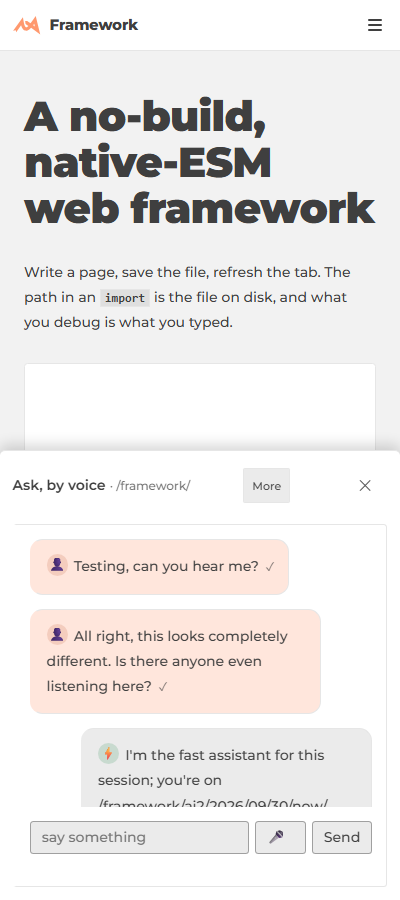
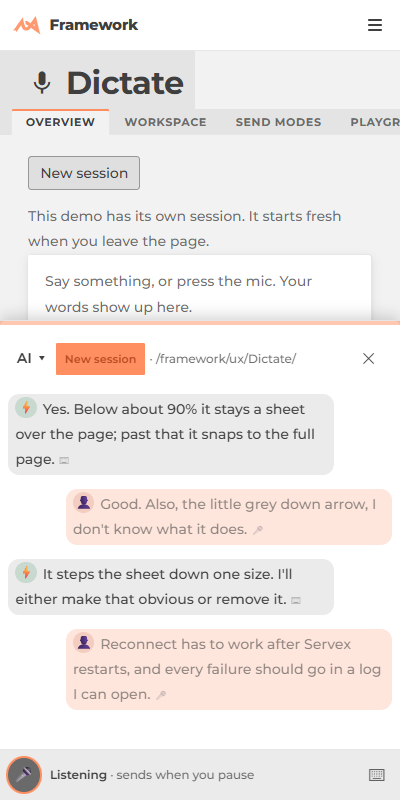
Phone sheet docs: why it stopped reconnecting and where its log is (ext/drawer/doc/sheet.md), the Dictate readme, asks ticked, the 40 px before/after series on the surfaces page

diff --git a/public/framework/ux/Dictate/surfaces/page.js b/public/framework/ux/Dictate/surfaces/page.js
@@ -1,4 +1,25 @@
-import { Page, md, div, h3, img, a } from "/app.js";
+import { Page, md, div, h2, h3, img, a } from "/app.js";
+
+// The phone sheet at 400 px, one shot per 40 px of drag, before and after 2026-10-20 (../test/sheet-steps.mjs; doc: ext/drawer/doc/sheet.md).
+const STEPS = "/framework/ai/sessions/2026/10/20/session-e00f55c9/sessions-and-tasks/mobile-sheet/shots/";
+function sheet_steps(){
+	h2("The phone sheet, step by step").attr("id", "the-phone-sheet-step-by-step");
+	md("**One click on ✦, then the top edge dragged 40 px at a time.** Before (left): it opens as a one-line strip, the page behind turns into an empty grey page, and the layout changes as it grows (a strip, a boxed chat, a tab row). After (right): the page stays visible, and the same three rows (head, chat well, mic footer) only grow, snap open at 90%, then come back down to the compact strip. Made by [test/sheet-steps.mjs](/framework/ux/Dictate/test/sheet-steps.mjs); why and how: [ext/drawer/doc/sheet.md](/framework/ext/drawer/doc/sheet.md).");
+	div.c("ux-dictate-surfaces-steps", $g => {
+		$g.style({ display: "grid", gridTemplateColumns: "1fr 1fr", gap: "1.5em", alignItems: "start" });
+		[["Before", "before", 18], ["After", "after", 22]].forEach(([label, dir, n]) => div(() => {
+			h3(label);
+			div($r => {
+				$r.style({ display: "flex", flexWrap: "wrap", gap: "0.4em" });
+				for (let i = 0; i < n; i++){
+					const src = STEPS + dir + "/sheet-" + String(i).padStart(3, "0") + ".png";
+					a(() => img().attr("src", src).attr("alt", label + ", step " + i).attr("loading", "lazy")
+						.style({ width: "7.5em", border: "1px solid var(--line)", display: "block" })).href(src);
+				}
+			});
+		}));
+	});
+}
 
 /* The one permanent map of every voice and chat surface. Long form, the census and the measurement:
  * /framework/ux/Dictate/doc/surfaces.md. Screenshots: shoot.mjs in the task that built this page
@@ -87,6 +108,8 @@ export default new Page({
 					"- **Writes to:** " + s.log].join("\n"));
 			}));
 		});
+
+		sheet_steps();
 
 		md("## The flow\nFrom the microphone to the screen, and which surface shows which stage.");
 		md("```\n" + FLOW + "\n```");

diff --git a/public/framework/ext/Session/Session.js b/public/framework/ext/Session/Session.js
@@ -145,7 +145,7 @@ export function stream(session, on_event, { on_state } = {}){
 		};
 		src.onmessage = e => { try { on_event(JSON.parse(e.data)); } catch {} };
 		// A refused connection retries by itself; a non-200 answer (the /servex proxy's 502 while Servex
-		// restarts) CLOSES the EventSource for good, so we reopen it, 1 s then doubling to 15 s. doc: ux/Dictate/doc/sheet.md
+		// restarts) CLOSES the EventSource for good, so we reopen it, 1 s then doubling to 15 s. doc: ext/drawer/doc/sheet.md
 		src.onerror = () => {
 			if (stopped) return;
 			const closed = src.readyState === EventSource.CLOSED;
@@ -162,7 +162,7 @@ export function stream(session, on_event, { on_state } = {}){
 }
 stream.state = "open";
 /** Every connection failure, one line in the Whisper bucket: written through the dev server, which is up when Servex is not.
- *  Open it at /framework/audio/Whisper/log/. Decision and the alternative: ux/Dictate/doc/sheet.md#the-log */
+ *  Open it at /framework/audio/Whisper/log/. Decision and the alternative: ext/drawer/doc/sheet.md#the-log */
 stream.log = (kind, fields) => import("/framework/audio/Whisper/WhisperLog.js")
 	.then(m => m.default.event("connection", kind, fields)).catch(() => {});
 

diff --git a/public/framework/ext/drawer/doc/sheet.md b/public/framework/ext/drawer/doc/sheet.md
@@ -6,6 +6,21 @@ On a phone, the ✦ sheet can be dragged from part of the screen up to all of it
 
 Screenshots of every step: [Mobile bottom rail](/framework/ext/drawer/rail/).
 
+## One layout, opened in place, and the reconnect (2026-10-20)
+
+**What the owner sees now.** ✦ opens the sheet over the page, and the page stays visible above it. The sheet is three rows at every height: the head (AI ▾, New session, ✕), the chat well, and the mic footer. Dragging the top edge only changes the height: the well grows or shrinks, nothing swaps. At 90% it snaps open to the full screen. Dragged down to the bottom it is the compact strip: the same head and footer, with the well at 0 px. The 40 px series, before and after: [Voice and chat surfaces](/framework/ux/Dictate/surfaces/#the-phone-sheet-step-by-step).
+
+- **The well:** full width, padding left and right only, no top or bottom padding (bubbles scroll under the head and the footer), square, in an unpadded parent (`rail.css`, "FULL-WIDTH CHAT"). The owner's words, 10-19 and 10-20: [asks.md](/framework/ai/sessions/2026/10/20/session-e00f55c9/sessions-and-tasks/mobile-sheet/well-asks/asks.md).
+- **No unexplained arrows.** The strip's ⌃ and ▾ buttons are gone (drag the edge instead). The chat's jump button says its job: **↓ Newest**, a pill stuck to the well's bottom edge (`ext/Chat`, `sticky_scroll()`).
+- **Opened in place.** On the phone, ✦ no longer routes to `<path>/ai/`: that page replaced the page behind with an empty "The chat is in the sheet" page. The size is in `history.state`, so back still steps it down. A link or a reload of `<path>/ai/` still opens the sheet. The alternative, not built: keep the route and draw the page it is about behind it.
+- **First click opens the three rows** at the remembered height (60% the first time), not the one-line strip: the full wall of text is the mode while we debug.
+
+**Why it stopped reconnecting.** On the phone, Servex is reached through the dev server's `/servex` proxy. While Servex restarts, the proxy answers **502**, and a browser `EventSource` that gets a non-200 answer closes for good. On localhost the connection is simply refused, which the browser does retry, so it only failed on the phone. Now `Session.stream()` (`ext/Session`) reopens itself, 1 s then doubling up to 15 s, and the sheet's head shows a **Reconnect** button while the wire is down (press it to try at once). Proof without restarting anything: `ux/Dictate/test/reconnect.mjs` answers the stream with 502 for a few seconds and checks the button, the automatic reopen, and the log lines (5/5 pass).
+
+### The log
+
+Every failure is one line in the **Whisper bucket**, `ai/whisper/bucket.jsonl`, with `src: "connection"`: `lost`, `retry failed`, `reconnect pressed`, `reconnected` (with how long it was down), and `say failed` when a sentence could not be sent. Open it at [the Whisper log](/framework/audio/Whisper/log/). Decision: this bucket, because it is written through the dev server, which is up exactly when Servex is down. The alternative was the voice session's own record, but Servex is its only writer, and Servex is the thing that is down.
+
 ## The url: `<path>/ai/` (2026-10-17, sheet step 5)
 
 | State | Url | What shows |
@@ -16,7 +31,7 @@ Screenshots of every step: [Mobile bottom rail](/framework/ext/drawer/rail/).
 
 - `<path>/ai/` is an [`AIPage`](../AIPage.js) (`class AIPage extends Page`). `Page.child()` mints one for any page with no real `ai/` page of its own. A real one wins: on `/framework/`, ✦ opens the sheet in place, because `/framework/ai/` is the AI system.
 - Above 52em the `AIPage` shows in the page (the chat and its views). Below it, the page is hidden and the sheet shows it, so the page it is about stays behind.
-- ✦ goes to `<path>/ai/` at the strip. Each step up adds a history entry with the same url, so back steps down one size, then closes. A reload or a link lands at split, with `<path>` put underneath, so back closes it.
+- (Until 2026-10-20; on the phone ✦ now opens in place, see above.) ✦ goes to `<path>/ai/` at the strip. Each step up adds a history entry with the same url, so back steps down one size, then closes. A reload or a link lands at split, with `<path>` put underneath, so back closes it.
 - Old links are rewritten once with `replaceState`: `?sheet=open` becomes `<path>/ai/`, and `?drawer=dictation` becomes `<path>/ai/dictation/` (`AIPage.old_link()`).
 - ⚠ A page that writes `history.replaceState(null, …)` wipes the sheet's size. Pass `history.state` instead (the Dictate playground did this until 2026-10-17).
 
@@ -55,7 +70,7 @@ A reload or a shared link at `?sheet=full` opens the sheet at full height, and f
 
 ## The drag
 
-Letting go settles the sheet by where it was let go, through `Sheet.Size.settle()` (2026-10-16; it replaced `full_at` 85% and `close_at` 28%). At 90% of the screen or more, it goes full. Under half the strip (50 px), it closes. Under about halfway from the strip to 30% of the screen, it is the strip (100 px). Anywhere else it is split at the height you let go, and that height is remembered (kept between 30% and 88%). The numbers are static fields on `Sheet.Size`.
+Letting go settles the sheet by where it was let go, through `Sheet.Size.settle()` (2026-10-16; it replaced `full_at` 85% and `close_at` 28%). At 90% of the screen or more, it goes full. Under half the strip (50 px), it closes. Under about halfway from the strip to 30% of the screen, it is the strip (110 px since 2026-10-20: the head plus the mic footer). Anywhere else it is split at the height you let go, and that height is remembered (kept between 30% and 88%). The numbers are static fields on `Sheet.Size`.
 
 While you drag, the sheet has a real height (`.drawer-rail-sheet-sized`), not only a ceiling. With only `max-block-size`, a drag above the sheet's own content did nothing: the finger moved and the sheet stayed where it was. The edge stays under the finger (measured within 1 px) because `ext/grip` now remembers where in the strip the finger landed, on the y axis only.
 

diff --git a/public/framework/ux/Dictate/doc/asks.md b/public/framework/ux/Dictate/doc/asks.md
@@ -47,6 +47,11 @@ Walk through it yourself: [try-it.md](try-it.md).
 
 ## Done (short)
 
+- **phone-sheet** (2026-10-19 to 2026-10-20): The phone ✦ sheet is one strong layout: a head, a full-width chat well (side padding only, bubbles scroll under the head and footer), a compact mic footer; it only grows as you drag, snaps open at 90%, keeps the page behind visible; no unexplained grey arrow.
+  - Done 2026-10-20: [ext/drawer/doc/sheet.md](/framework/ext/drawer/doc/sheet.md#one-layout-opened-in-place-and-the-reconnect-2026-10-20); the 40 px before/after series is on [Voice and chat surfaces](/framework/ux/Dictate/surfaces/#the-phone-sheet-step-by-step). The owner's words: [asks.md](/framework/ai/sessions/2026/10/20/session-e00f55c9/sessions-and-tasks/mobile-sheet/well-asks/asks.md).
+- **sheet-reconnect** (2026-10-19 to 2026-10-20): The voice session must reconnect after a Servex restart; a button retries; every failure goes in a log the owner can open.
+  - Done 2026-10-20: the phone's 502 through the /servex proxy closed the stream for good; it now reopens itself, a Reconnect button shows while it is down, and failures go to [the Whisper log](/framework/audio/Whisper/log/) (`src: "connection"`). Proof: `test/reconnect.mjs`.
+
 - **vscode-voice-path** (6x, 2026-09-29 to 2026-10-09): The VS Code app path (Echo) feeds the same five-stage flow as Refine: one dictation system, one widget.
   - Now: Built 2026-10-12 ([8d80ff0](https://github.com/lew42/monorepo/commit/8d80ff02a)): `Servex/agents/Echo.js` writes raw, clean and structure through `VoicePage`, same id scheme as the Refine button. Echo stays off by default (`SERVEX_ECHO`); a failed stage is marked on the page (review fix [debc6f4](https://github.com/lew42/monorepo/commit/debc6f4b5)). Proof: [voice-asks-2](/framework/ai/sessions/2026/10/12/session-fb723164/voice-asks-2/STATE.md), `proof.mjs` A.
   - Sources: `60d9def6` `87bec773` `7efd07d5` `.claude/`

diff --git a/public/framework/ux/Dictate/readme.md b/public/framework/ux/Dictate/readme.md
@@ -8,6 +8,8 @@
 
 **The voice assistant** (one assistant places each sentence as you talk: same paragraph, own paragraph, own card; the plan and why the chat jumps): [`doc/voice-assistant.md`](doc/voice-assistant.md).
 
+**The phone sheet** (✦ at the bottom of every page under 52em): `class Sheet` in [`ext/drawer/Sheet.js`](/framework/ext/drawer/Sheet.js), mounting the one [`chat.js`](chat.js). One layout at every height: a head, a full-width chat well, the mic footer; it opens over the page and snaps open at 90%. **Its connection log:** every lost, retried or restored link to Servex is a `src: "connection"` line in [the Whisper log](/framework/audio/Whisper/log/) (`ai/whisper/bucket.jsonl`). How and why: [ext/drawer/doc/sheet.md](/framework/ext/drawer/doc/sheet.md). Proofs: `test/sheet-steps.mjs` (a shot per 40 px of drag), `test/reconnect.mjs` (a Servex restart).
+
 **`DictationBar`** (the phone sheet's one big mic that says its state, a Type button, no Send; switch back in one line): [`doc/refine-dictate-tasks.md#the-bar`](doc/refine-dictate-tasks.md).
 
 **Talking to the mastermind from the Claude app's voice mode** (why not a browser bridge; a connector instead): [`doc/voice-bridge.md`](doc/voice-bridge.md).
